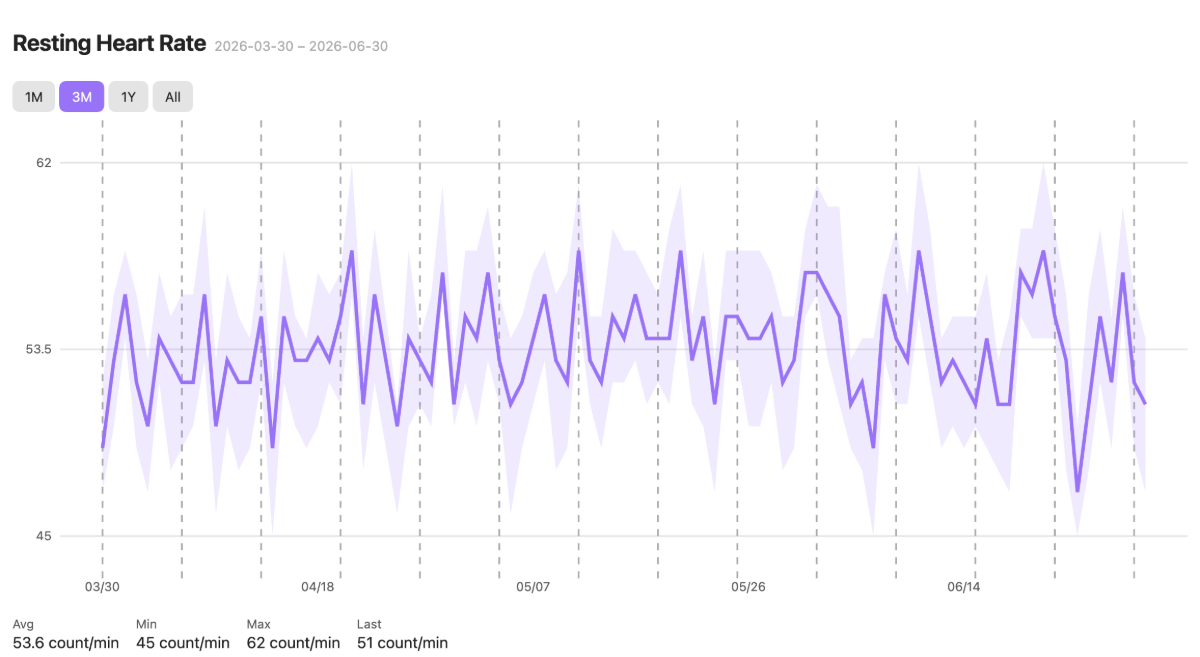
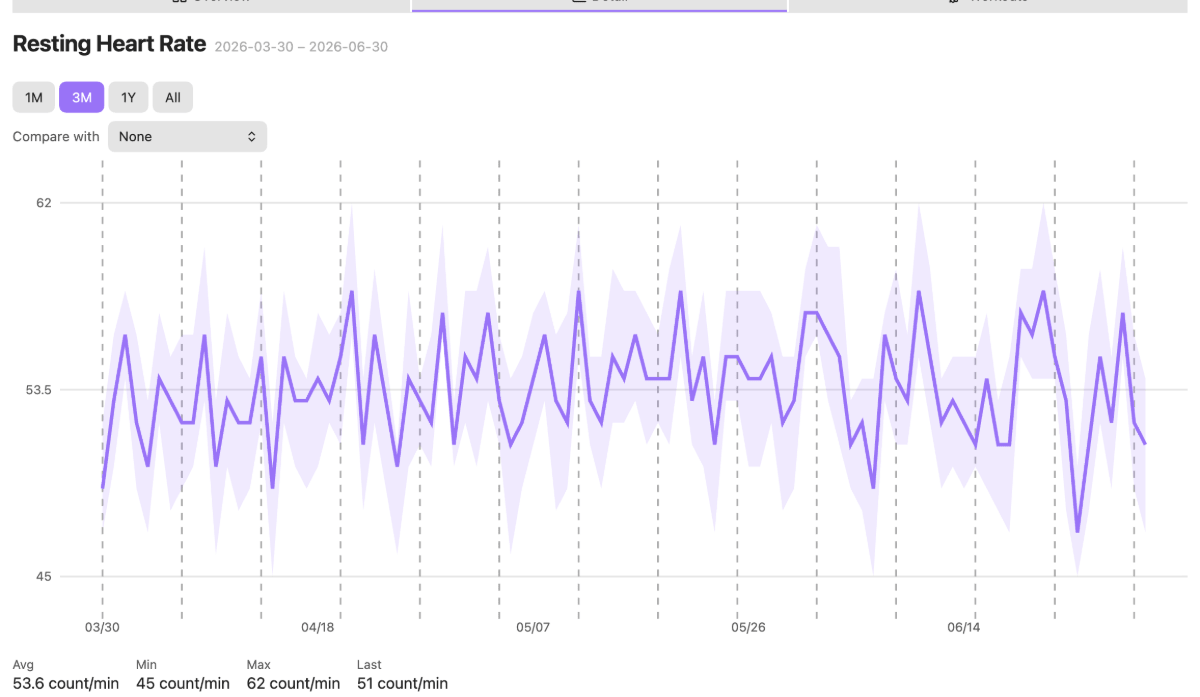
docs: README-Bilder Übersicht (Ringe) und Detail (Vergleichsauswahl) neu aufgenommen; AGENTS.md Welle-22-Flächen

diff --git a/AGENTS.md b/AGENTS.md
@@ -25,6 +25,17 @@ Dateidialog aus.
 - **Cache in `health-cache.json`** (separate Datei im Plugin-Dir, **lazy** beim Öffnen des Dashboards geladen — nicht in `data.json`, das würde bei jedem Start blockieren). Geparste Tages-Aggregate. **Gitignored.**
 - **Reiner Kern / Obsidian-Schicht** Trennung (PROF-OBS-03/04): Parser-Logik ohne obsidian-Import, in Node testbar.
 
+- **Weitere Flächen (seit Welle 22):** Einstellungs-Tab (`obsidian/settings-tab.ts`, zweigleisig:
+  `getSettingDefinitions` + `display()`-Fallback über den Kit-Walker; Hilfe-Zeile zuerst, Export-Ordner und
+  -Format) · Codeblock ```` ```health-vitals ```` (`core/block-spec.ts` parst, `obsidian/codeblock.ts` rendert
+  und zieht nach einem Import nach) · Befehl „Werte in heutige Daily Note schreiben“ (`obsidian/daily-note.ts`,
+  nur eigene `health_*`-Felder, nie vorhandene Werte) · Aktivitätsringe (`ActivitySummary` → Cache-Zweig
+  `activity`, Karte in der Übersicht) · Vergleich zweier Metriken (`buildOverlayGeometry`, zweite Serie
+  gestrichelt mit Marken auf rechter Achse). Cache-Version steht in `main.ts` (`CACHE_VERSION`), `core/types.ts`
+  (`HealthCache.version`) und im Fixture-Generator — alle drei zusammen heben.
+- **Zonenproben:** `vitest.config.ts` setzt `TZ=America/New_York`; ein `TZ=… npx vitest` misst nichts. Zonenabhängige
+  Rechnung außerhalb von vitest prüfen (esbuild-Bündel, `TZ=… node`).
+
 `isDesktopOnly: true` — XML-Import nur auf Desktop sinnvoll.
 
 ## Commands
